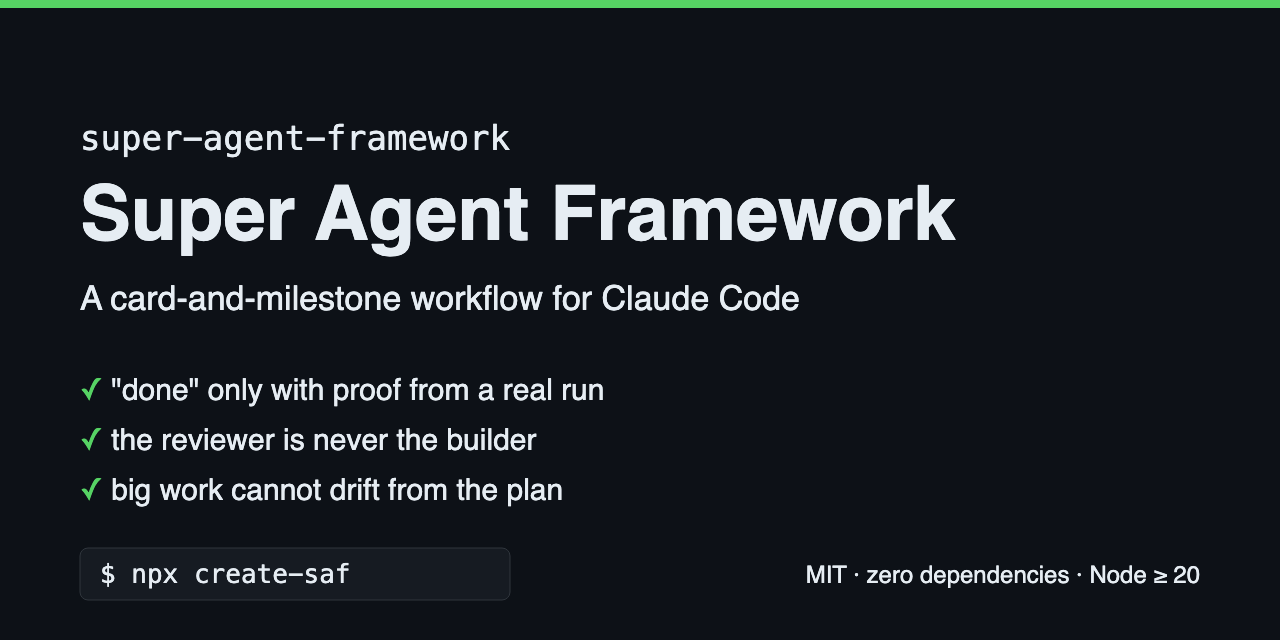
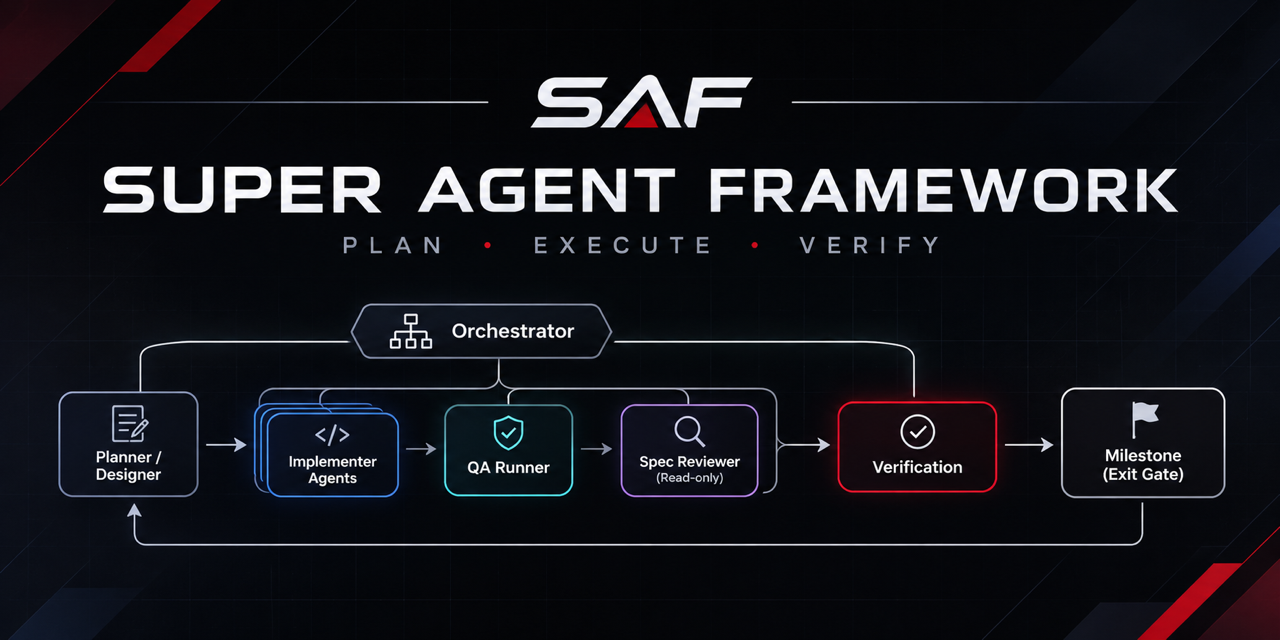
docs: social preview uses the owner's workflow diagram (1280x640)

diff --git a/docs/plan/STATE.md b/docs/plan/STATE.md
@@ -4,14 +4,14 @@
 
 ## M1 v0.1.0 public release — cards done 1/4
 
-- In progress: none
-- Next: T-M1-02 Tag v0.1.0 and publish the GitHub release · T-M1-03 Upload the social preview image · T-M1-04 Sort the first trial feedback into fixes and roadmap items
+- In progress: **T-M1-03** Upload the social preview image — started 2026-11-23 18:58 · not verified yet
+- Next: T-M1-02 Tag v0.1.0 and publish the GitHub release · T-M1-04 Sort the first trial feedback into fixes and roadmap items
 
 | Card | Work | Status | Evidence |
 |---|---|---|---|
 | [T-M1-01](tasks/M1/T-M1-01.md) | Publish super-agent-framework and create-saf 0.1.0 to npm | ✓ passed | [T-M1-01.json](evidence/T-M1-01.json) · passed 2026-11-23 18:52 (2 commands) |
 | [T-M1-02](tasks/M1/T-M1-02.md) | Tag v0.1.0 and publish the GitHub release | · not started | – |
-| [T-M1-03](tasks/M1/T-M1-03.md) | Upload the social preview image | · not started | – |
+| [T-M1-03](tasks/M1/T-M1-03.md) | Upload the social preview image | ▶ in progress | [T-M1-03.json](evidence/T-M1-03.json) · started 2026-11-23 18:58 · not verified yet |
 | [T-M1-04](tasks/M1/T-M1-04.md) | Sort the first trial feedback into fixes and roadmap items | · not started | – |
 
 ### Exit gates of M1 (checked with `npm run task:verify -- M1`)
@@ -34,6 +34,7 @@
 
 ## Latest evidence
 
+- T-M1-03 Upload the social preview image — started 2026-11-23 18:58 · not verified yet
 - T-M1-01 Publish super-agent-framework and create-saf 0.1.0 to npm — passed 2026-11-23 18:52 (2 commands)
 - T-M2-04 task:verify reports changed code and test lines against the card's size cap — passed 2026-11-23 18:42 (2 commands)
 - T-M0-01 SAF self-checks pass through the real card loop — passed 2026-11-23 17:34 (3 commands)

diff --git a/.saf/plan.md b/.saf/plan.md
@@ -22,7 +22,7 @@ outside feedback is read and sorted into fixes and roadmap items.
 ## Task List
 - [x] T-M1-01 Publish super-agent-framework and create-saf 0.1.0 to npm — passed 2026-11-23 18:52 (2 commands)
 - [ ] T-M1-02 Tag v0.1.0 and publish the GitHub release
-- [ ] T-M1-03 Upload the social preview image
+- [ ] T-M1-03 Upload the social preview image — started 2026-11-23 18:58 · not verified yet
 - [ ] T-M1-04 Sort the first trial feedback into fixes and roadmap items
 
 ## Side lane (M2)
